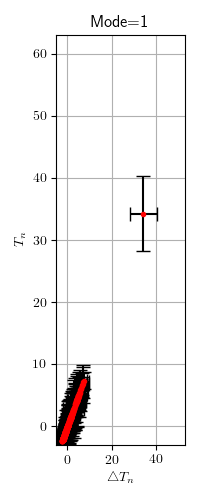
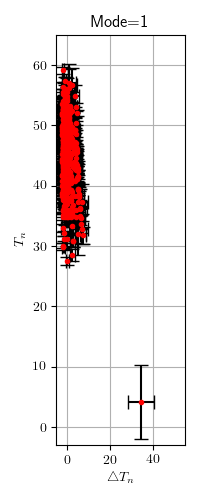
plots for Mods

diff --git a/private/Vasiliev/plot_mods_and_temperatures.py b/private/Vasiliev/plot_mods_and_temperatures.py
@@ -66,13 +66,13 @@ for currentMode in range(0, 5):
 	for tmp in range(0, np.size(Tvals[:,0])):
 		avrgTvalsErr[tmp] = np.std(Tvals[tmp, :])
 		avrgdifTvalsErr[tmp] = np.std(difTvals[tmp, :])
-	ax.errorbar(avrgdifTvals, avrgdifTvals, xerr=avrgdifTvalsErr, yerr=avrgdifTvalsErr, fmt='.', marker='.', capsize=5, capthick=1, ecolor='black', color='r')
+	ax.errorbar(avrgdifTvals, avrgTvals, xerr=avrgdifTvalsErr, yerr=avrgdifTvalsErr, fmt='.', marker='.', capsize=5, capthick=1, ecolor='black', color='r')
 	plt.grid()
 	plt.title(r'Mode='+str(currentMode))
 	plt.ylabel(r'$T_n$')
 	plt.xlabel(r'$\triangle T_n$')
-	plt.ylim(-3, 63)
-	plt.xlim(-5, 53)
+	plt.ylim(-3, 65)
+	plt.xlim(-5, 55)
 	ax.xaxis.grid(b=True, which='both')
 	ax.yaxis.grid(b=True, which='both')
 	plt.tight_layout()
